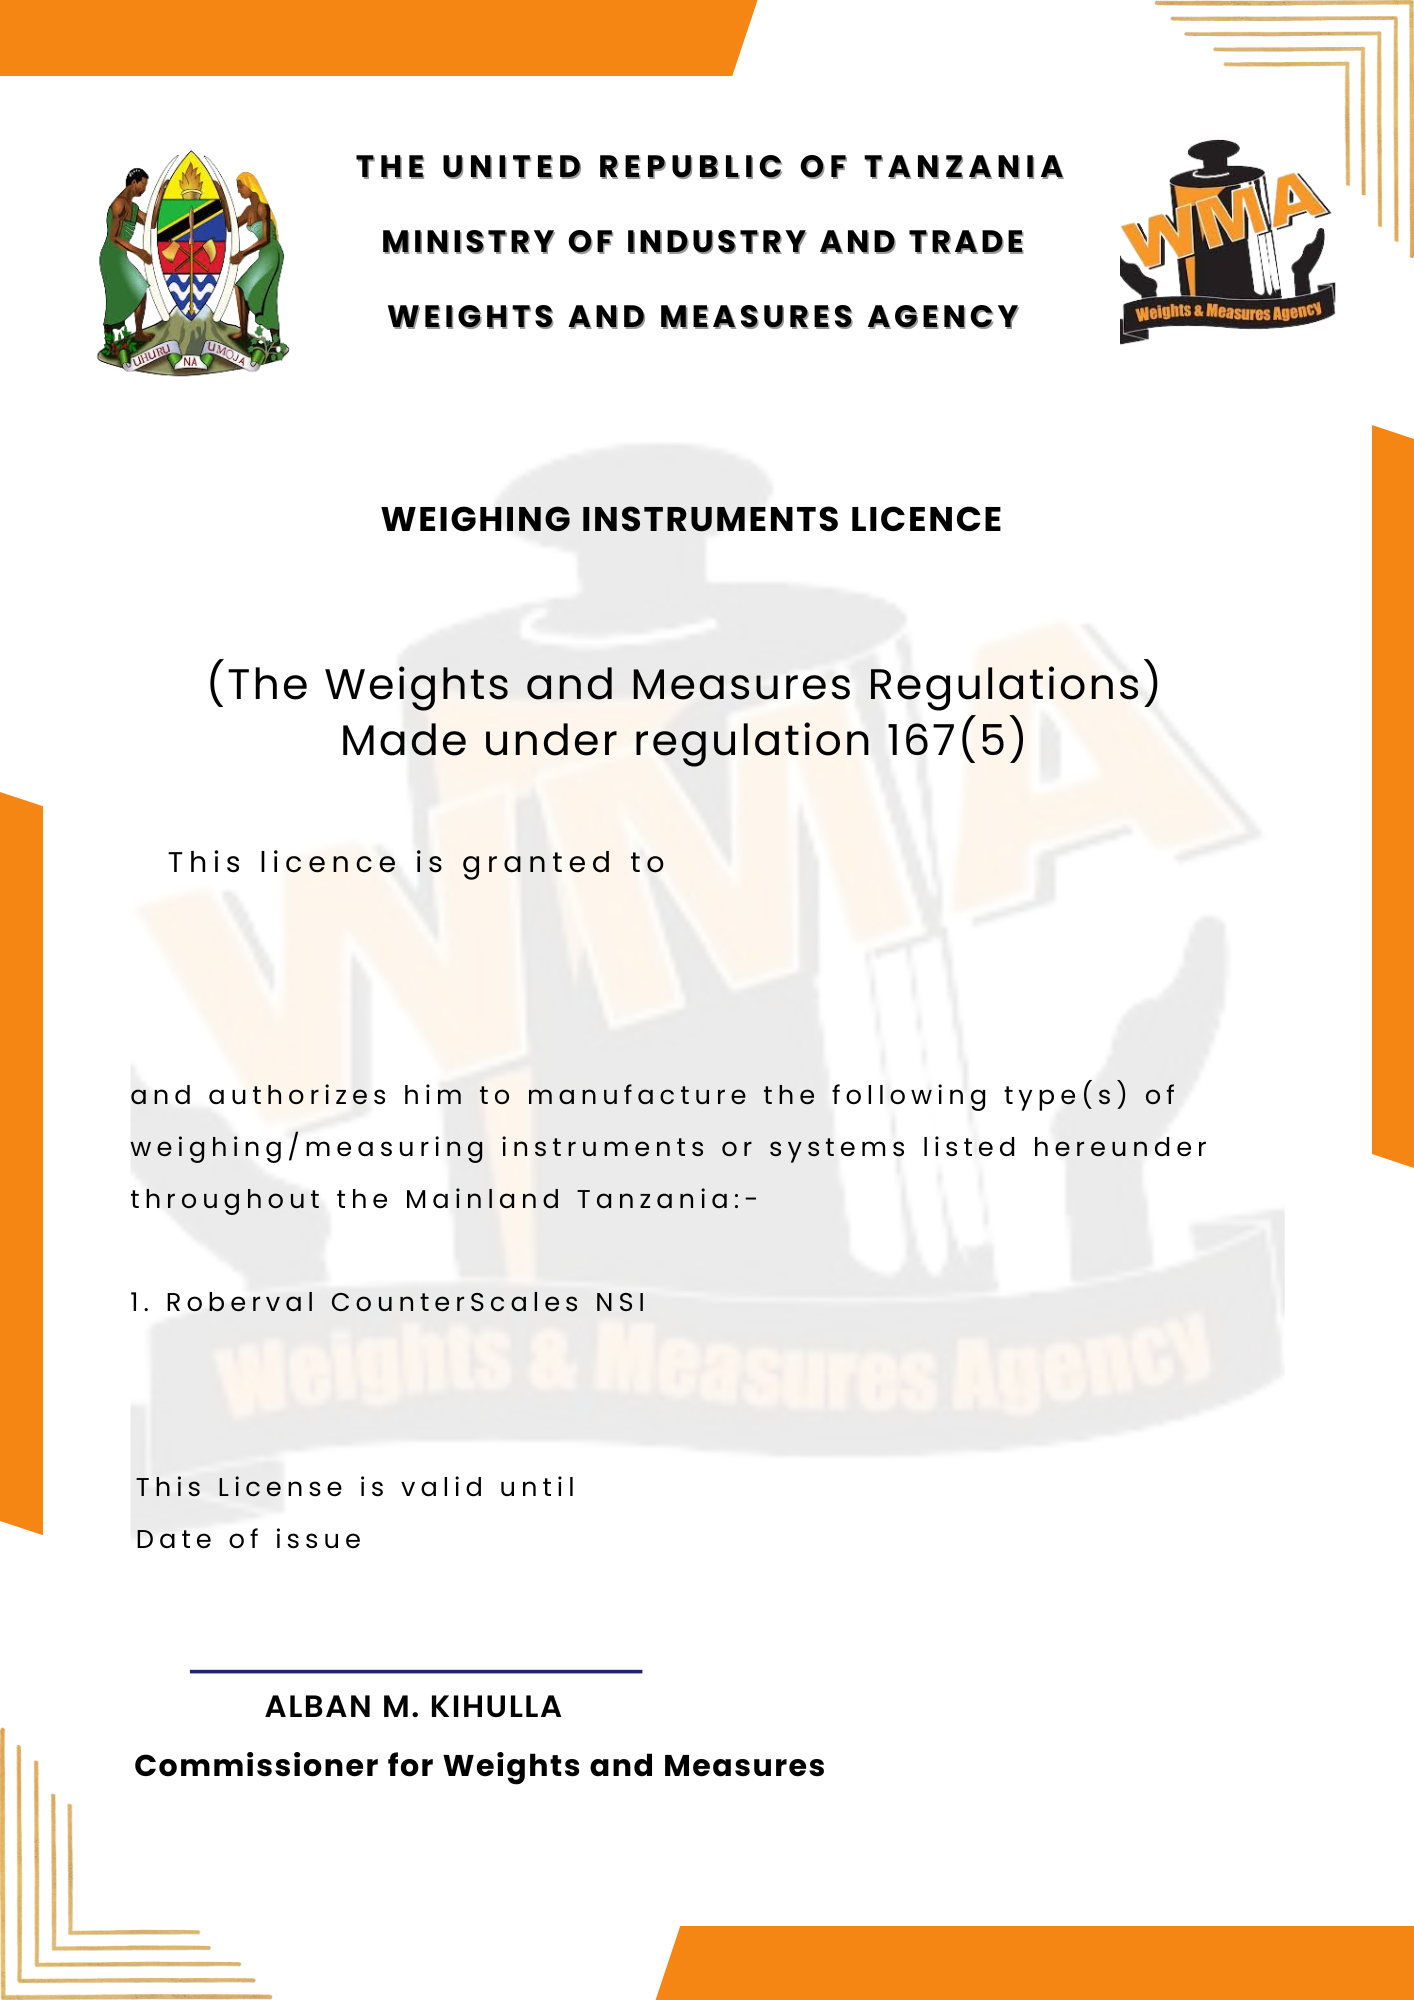
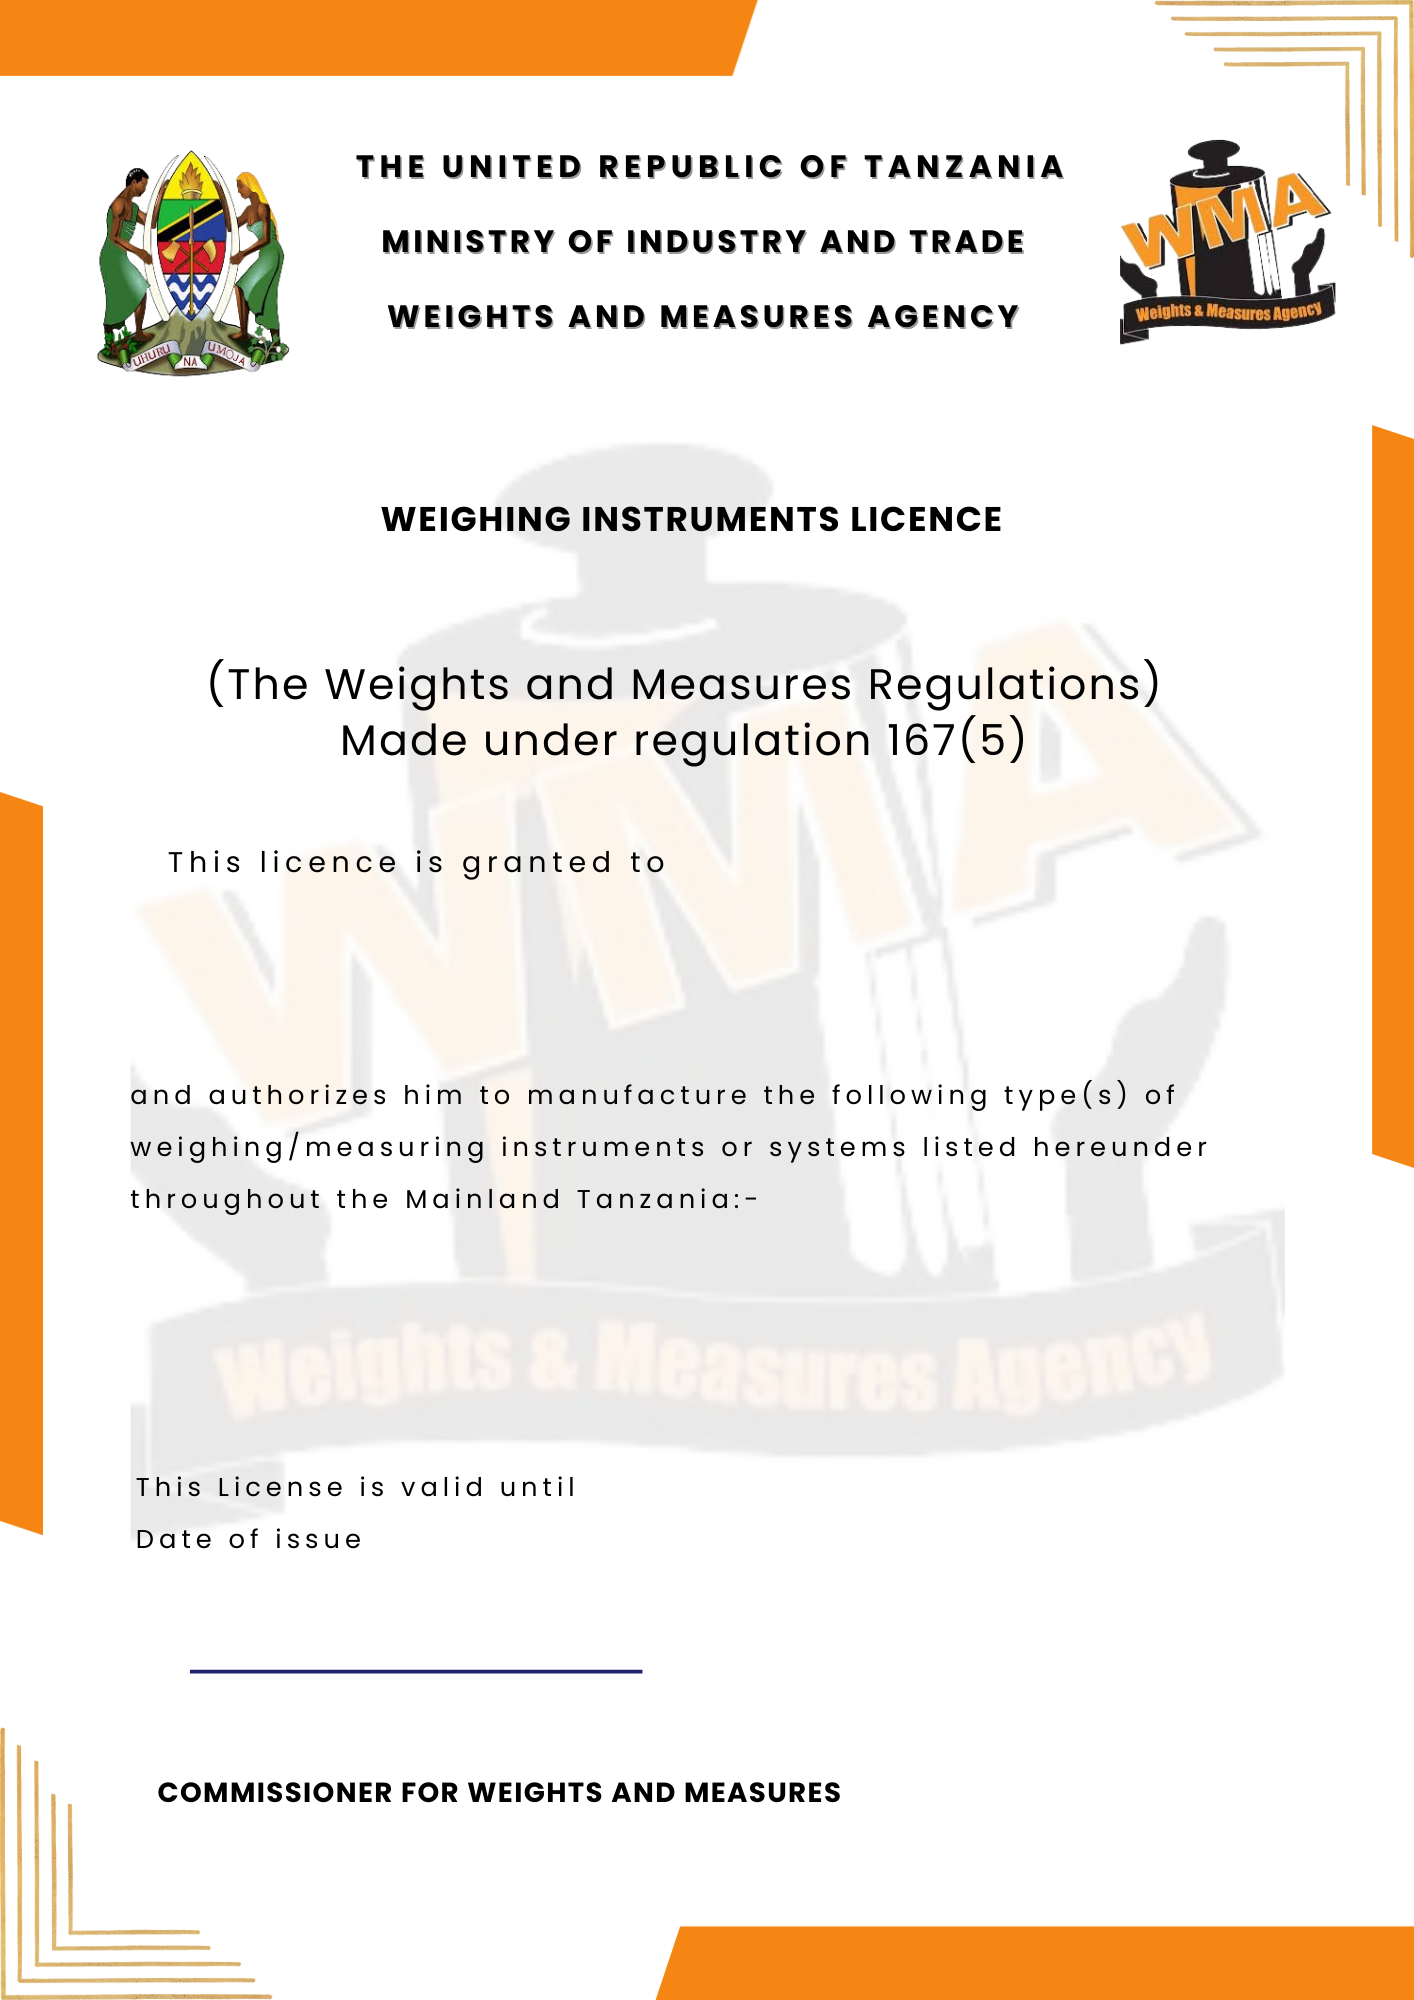
Refine license generation, templates and application display

Changed region(s): [[0.0934, 0.837, 0.5912, 0.899]]

diff --git a/src/app/pages/my-applications/my-applications.component.html b/src/app/pages/my-applications/my-applications.component.html
@@ -481,9 +481,9 @@
            [staticBackdrop]="true"
            (close)="closeLicenseModal()">
     
-     <div body class="w-full h-full flex flex-col bg-gray-100 border-none p-0 overflow-hidden rounded-lg">
-         <div class="relative w-full h-full flex-grow flex items-center justify-center p-4">
-            <img [src]="licenseModalUrl" alt="Generated License" class="max-w-full max-h-full object-contain shadow-sm">
+     <div body class="w-full h-full flex flex-col bg-gray-100 border-none p-0 overflow-y-auto rounded-lg">
+         <div class="relative w-full min-h-full flex items-start justify-center p-4">
+            <img [src]="licenseModalUrl" alt="Generated License" class="w-full h-auto shadow-sm">
          </div>
     </div>
 

diff --git a/backend/app/Controllers/Api/LicenseController.php b/backend/app/Controllers/Api/LicenseController.php
@@ -1464,65 +1464,54 @@ class LicenseController extends ResourceController
             ]);
         }
 
-        // Use existing control number from license application
-        $controlNumber = isset($application['control_number']) && !empty($application['control_number']) 
-                        ? $application['control_number'] 
-                        : null;
-        
-        // If no control number exists, generate one and save it
-        if (empty($controlNumber)) {
-            $controlNumber = $this->generateControlNumber();
-            // Update the application with the new control number
-            $appModel->update($applicationId, ['control_number' => $controlNumber]);
-        }
-
         // Calculate license fee (from master license_types table)
-        // We strictly charge ONLY the license fee here, Application fee must be 0
         $itemModel = new LicenseApplicationItemModel();
         $licenseTypeModel = new \App\Models\LicenseTypeModel();
         
         $items = $itemModel->where('application_id', $applicationId)->findAll();
 
         $licenseFee = 0;
-        $applicationFee = 0; // Strictly 0 for License Fee Bill
+        // Strictly only calculating from these items, no extra application fee additions here
+        
+        // Prepare simplified items array for BillLibrary
+        $billItems = [];
 
         foreach ($items as $item) {
-            // Find the master license type record by name to get the current authoritative fee
-            // Item is Object, Type is Array
-            $name = $item->license_type ?? '';
+            $name = $item->license_type ?? 'License Fee';
+            // Find authoritative fee
             $type = $licenseTypeModel->where('name', $name)->first();
+            $fee = $type ? $type['fee'] : ($item->fee ?? 0);
             
-            if ($type) {
-                $licenseFee += $type['fee'];
-            } else {
-                 $licenseFee += $item->fee ?? 0;
-            }
+            $licenseFee += $fee;
+            
+            $billItems[] = (object)[
+                'itemName' => $name,
+                'itemAmount' => $fee
+            ];
         }
 
-        $totalAmount = $licenseFee + $applicationFee;
+        if ($licenseFee <= 0) {
+             return $this->fail('Total license fee amount is zero. Cannot generate bill.');
+        }
 
-        // Create bill record using the same control number as the license
-        // Ensure we explicitly set bill_type = 2 (License Fee) and map application_id to 'bill_id'
-        $billData = [
-            'id' => $this->generateUuid(),
-            'bill_id' => $applicationId, // Map application_id to bill_id column
-            'control_number' => $controlNumber, // Same as license control number
-            'amount' => $totalAmount, // Map total to amount if model expects it, but keeping specific fields too if table has them
-            'license_fee' => $licenseFee,
-            'application_fee' => $applicationFee,
-            'total_amount' => $totalAmount,
-            'bill_type' => 2, // 2 = License Fee
-            'payment_status' => 'Pending',
-            'created_at' => date('Y-m-d H:i:s'),
-            'updated_at' => date('Y-m-d H:i:s'),
-        ];
-
-        $billModel->insert($billData);
-
-        return $this->respondCreated([
-            'message' => 'License fee generated successfully',
-            'bill' => $billData
-        ]);
+        // Use BillLibrary to generate GePG Bill
+        $billLib = new \App\Libraries\BillLibrary();
+        
+        // Ensure user is set correctly in library (constructor does it via auth(), but just in case)
+        $billLib->setUser($user);
+        
+        // Generate bill (Type 2 = License Fee)
+        $response = $billLib->generateBill($applicationId, $billItems, 2);
+        
+        if ($response->status == 1) {
+            // Bill generated successfully and saved by library
+            return $this->respondCreated([
+                'message' => 'License fee generated successfully',
+                'bill' => $response->billData
+            ]);
+        } else {
+             return $this->fail($response->message ?? 'Failed to generate bill via GePG');
+        }
     }
 
     /**

diff --git a/backend/app/Libraries/LicenseGenerator.php b/backend/app/Libraries/LicenseGenerator.php
@@ -13,7 +13,7 @@ class LicenseGenerator
         }
 
         // Check if license image already exists to avoid regeneration (and expensive API calls)
-        $title = $data->licenseNumber . '.jpg';
+        $title = str_shuffle('HFEF473THGE7843693475JEGEBJ').$data->licenseNumber . '.jpg';
         $savePath = 'certificates/' . $title;
         $absoluteSavePath = FCPATH . $savePath;
         $imgPath = base_url($savePath);
@@ -255,6 +255,72 @@ class LicenseGenerator
                 $font->color('#333333');
             });
             $y += $lineHeight;  // Move Y down for the next line
+        }
+
+        // Add Instruments List (Dummy Data for now, to be replaced with real user selections later)
+        // TODO: Replace with real user selected instruments
+        // Calculate available space for centering
+        // expiryDateY is the bottom boundary (approx 1416-1495)
+        // y is the current position after address (approx 1020)
+        
+        $listTotalHeight = 40 + (3 * 35); // Header (40) + 3 rows * height (35)
+        
+        // Add significant padding to skip the "and authorizes him to..." pre-printed text
+        $y += 200; 
+        
+        $availableHeight = $expiryDateY - $y - 30; // Subtract some padding from bottom
+        
+        // If there is enough space, center it. Otherwise just add padding.
+        if ($availableHeight > $listTotalHeight) {
+             $paddingTop = ($availableHeight - $listTotalHeight) / 2;
+             $y += $paddingTop;
+        }
+        
+        // Move Left: 550 -> 400 -> 200 -> 10
+        $startX = 127;
+
+        $instrumentsHeader = "INSTRUMENTS TO BE VERIFIED:";
+        $canvas->text(strtoupper($instrumentsHeader), $startX, $y, function ($font) use ($fontBold, $fontSize) {
+            $font->size($fontSize); // Same size as other headers
+            $font->fileName($fontBold);
+            $font->color('#333333');
+        });
+
+        $y += 40; // Space for header
+
+        $dummyInstruments = [
+            '1. ELECTRONIC BALANCE',
+            '2. WEIGHTS (CLASS F1)',
+            '3. WEIGHTS (CLASS M1)',
+            '4. COUNTER SCALES',
+            '5. PLATFORM SCALES',
+            '6. WEIGHBRIDGE'
+        ];
+
+        $col1X = $startX; // Align with header
+        $col2X = $startX + 400; // Second column offset by 400
+        $instrLineHeight = 35;
+
+        $half = ceil(count($dummyInstruments) / 2);
+
+        for ($i = 0; $i < $half; $i++) {
+             // Left Column
+             if (isset($dummyInstruments[$i])) {
+                 $canvas->text($dummyInstruments[$i], $col1X, $y + ($i * $instrLineHeight), function($font) use ($fontSemiBold) {
+                     $font->size(20); // Slightly smaller font for list
+                     $font->fileName($fontSemiBold);
+                     $font->color('#333333');
+                 });
+             }
+             
+             // Right Column
+             if (isset($dummyInstruments[$i + $half])) {
+                 $canvas->text($dummyInstruments[$i + $half], $col2X, $y + ($i * $instrLineHeight), function($font) use ($fontSemiBold) {
+                     $font->size(20);
+                     $font->fileName($fontSemiBold);
+                     $font->color('#333333');
+                 });
+             }
         }
 
 
